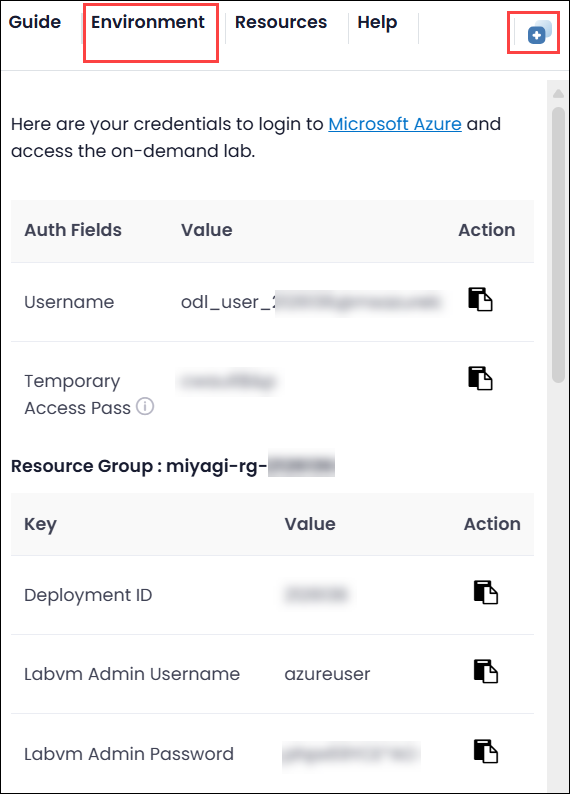
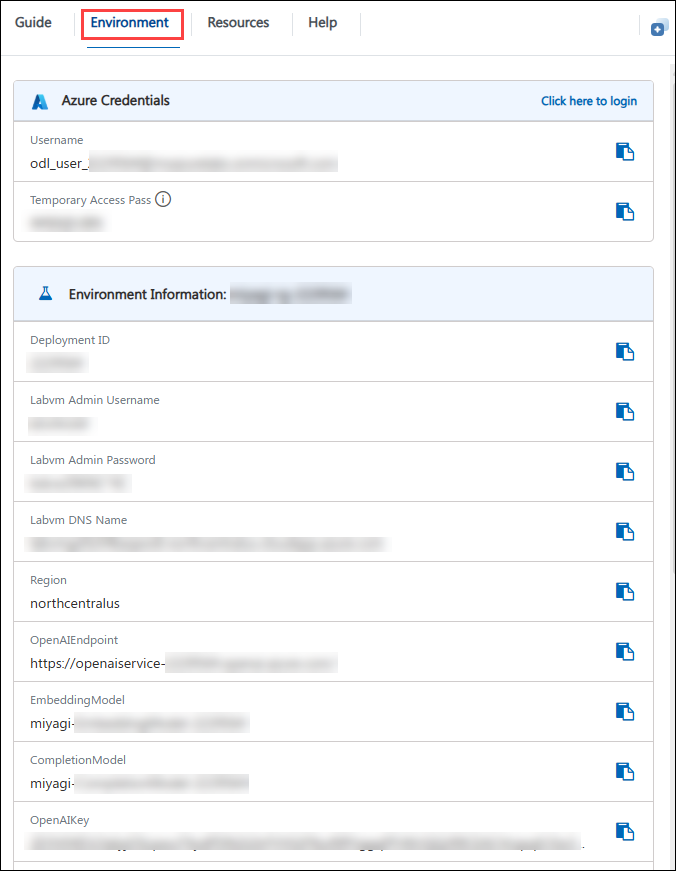
Changes

diff --git a/docs/labs/02-build-your-own-copilot/gl-lab1v3.md b/docs/labs/02-build-your-own-copilot/gl-lab1v3.md
@@ -22,11 +22,11 @@ In this lab, you will configure the Miyagi app by setting up the environment, in
 
    ![](./Media/img-05.png)
 
-   >**Note** If the **Join us in making promt-flow extension better!** window is prompted, click on **No,thanks**.
+   >**Note** If the **Join us in making prompt-flow extension better!** window is prompted, click on **No, thanks**.
 
    ![](./Media/image-rg-01.png)
    
-1. In **Visual Studio Code** from menu bar select **File(1)** > **open folder(2)**.
+1. In **Visual Studio Code**, from the menu bar select **File (1)** > **Open folder (2)**.
 
    ![](./Media/image-rg-02.png)
 
@@ -63,7 +63,7 @@ In this lab, you will configure the Miyagi app by setting up the environment, in
    
 1. Once the values are updated, save the file by pressing **CTRL + S**.
 
-1. Navigate to **miyagi/sandbox/usecases/rag/dotnet** and verify **.env** file is present.
+1. Navigate to **miyagi/sandbox/usecases/rag/dotnet** and verify the **.env** file is present.
   
 1. In the **.env** file, replace the following values for the variables below.
 
@@ -78,7 +78,7 @@ In this lab, you will configure the Miyagi app by setting up the environment, in
    
    ![](./Media/env1new.png)
 
-1. Once after updating the values, kindly save the file by pressing **CTRL + S**.
+1. After updating the values, save the file by pressing **CTRL + S**.
 
 >**Congratulations** on completing the Task! Now, it's time to validate it. Here are the steps:
   > - Hit the Validate button for the corresponding task. If you receive a success message, you have successfully validated the lab. 
@@ -91,7 +91,7 @@ In this lab, you will configure the Miyagi app by setting up the environment, in
 
 In this lab, you will explore the implementation of the Recommendation service, focusing on its algorithms and data processing methods to deliver personalized suggestions.
 
-Recommendation service implements RAG pattern using Semantic Kernel SDK. The details of the implementation are captured in the Jupyter notebook in the folder miyagi/sandbox/usecases/rag/dotnet. You can open the notebook in VSCode and run the cells to understand step-by-step details of how the Recommendation Service is implemented. Pay special attention to how the RAG pattern is implemented using Semantic Kernel. Select the kernel as **.NET Interactive** in the top right corner of the notebook.
+The Recommendation service implements the RAG pattern using the Semantic Kernel SDK. The details of the implementation are captured in the Jupyter notebook in the folder miyagi/sandbox/usecases/rag/dotnet. You can open the notebook in VSCode and run the cells to understand step-by-step details of how the Recommendation Service is implemented. Pay special attention to how the RAG pattern is implemented using Semantic Kernel. Select the kernel as **.NET Interactive** in the top right corner of the notebook.
 
 1. In the Visual Studio Code, navigate to **miyagi/sandbox/usecases/rag/dotnet** folder and select **Getting-started.ipynb**.
 
@@ -103,28 +103,82 @@ Recommendation service implements RAG pattern using Semantic Kernel SDK. The det
    dotnet --version
    ```
 
-1. After verifying the version, run the following command to install the **.NET Interactive** extension.
+1. Open the Extensions panel using **Ctrl+Shift+X (1)**, search under the **recommended section (2)** and manually install the following two extensions:
+ 
+   - **Python (3)** (by Microsoft)
+   - **Jupyter (4)** (by Microsoft)
 
+   ![](Media/ext01.png)
+
+1. Once installed, run the following commands in the terminal to set up the .NET Interactive kernel for Jupyter.
+ 
+   Install **.NET Interactive globally**:
+ 
+   ```powershell
+   dotnet tool install --global Microsoft.dotnet-interactive
    ```
-   code --install-extension ms-dotnettools.dotnet-interactive-vscode --force
+   
+   **Refresh the PATH** to make the tool available in the current terminal session:
+   
+   ```powershell
+   $env:PATH += ";$env:USERPROFILE\.dotnet\tools"
    ```
+   
+   **Install Jupyter** if it is not already present in the environment:
+   
+   ```powershell
+   python -m pip install jupyter
+   ```
+   
+   Register the .NET Interactive kernels with Jupyter:
+   
+   ```powershell
+   dotnet-interactive jupyter install
+   ```
+   
+   **Verify the kernels** were registered successfully:
+   
+   ```powershell
+   jupyter kernelspec list
+   ```
+ 
+   You should see `.net-csharp`, `.net-fsharp`, and `.net-powershell` listed in the output.
+ 
+   > **Close and reopen** Visual Studio Code to see the reflected changes.
+ 
+1. Authenticate with your Azure account by running the following command in the terminal:
+ 
+   ```powershell
+   az login
+   ```
+ 
+   A browser window will open prompting you to sign in. Select **Work or School Account** and provide your lab credentials.
+ 
+   ![](Media/az-login.png)
 
-   > **Note:** The installation may take some time. Please wait **10–15 minutes**, then reopen **Visual Studio Code** to verify whether the kernel has been installed.
-
+   Once signed in, verify the login was successful by running:
+   
+   ```none
+   az account show
+   ```
+   
+   You should see your subscription details printed in the terminal.
+ 
+1. Open the notebook file and select the appropriate kernel by clicking the **kernel selector** in the top-right corner of the notebook. Choose **Existing Jupyter Kernels -> .NET (C#)** for the notebook's language.
+ 
+   > **Note:** If the newly installed kernels do not appear in the kernel selector immediately, wait 15–20 seconds and try again.
+ 
 1. **Execute the notebook cell by cell** (using either Ctrl + Enter to stay on the same cell or Shift + Enter to advance to the next cell) and observe the results of each cell execution.
   
-   > **Note**: Make sure **.Net Interactive** is in ready State, if not please wait for 15 to 20 seconds. Also, please do not click on the **Run All** option to execute all the cells at a time,e this may lead to exceeding the token limit, resulting in the error: 503 – Service unreachable. 
+> **Note**: Please do not click on the **Run All** option to execute all the cells at a time; this may lead to exceeding the token limit, resulting in the error: 503 – Service unreachable.
 
       ![](./Media/run.png)
 
    > **Note**: Ensure that the **Python extension** is installed before running the cells.
    
-   > **Note**: Ensure to click on **Work or School Account** when a window opens and provide the username and password
-   
    > **Note**: In case any issues or errors occur related to the exceeded call rate limit of your current OpenAI S0 pricing tier. Please wait for 15 to 20 seconds and re-run the cell
 
 >**Congratulations** on completing the Task! Now, it's time to validate it. Here are the steps:
-
   > - Hit the Validate button for the corresponding task. If you receive a success message, you have successfully validated the lab. 
   > - If not, carefully read the error message and retry the step, following the instructions in the lab guide.
   > - If you need any assistance, please contact us at [email redacted].
@@ -135,7 +189,7 @@ Recommendation service implements RAG pattern using Semantic Kernel SDK. The det
 
 In this lab, you will set up the environment, install necessary dependencies, and run the Recommendation service locally to test and develop features effectively.
 
-1. Open a new terminal: by navigating **miyagi/services/recommendation-service/dotnet** and right-click on in cascading menu select **Open in Integrated Terminal**.
+1. Open a new terminal by navigating to **miyagi/services/recommendation-service/dotnet** and right-clicking in the cascading menu to select **Open in Integrated Terminal**.
 
     ![](./Media/task4-1.png)
 
@@ -161,9 +215,11 @@ In this lab, you will set up the environment, install necessary dependencies, an
 
 ## Task 4: Run miyagi frontend locally
 
-1. Navigate back to the VS code, Open a new terminal by navigating to **miyagi/ui** and right-click on **ui/typescript** , in cascading menu select **Open in Integrated Terminal**.
+1. Navigate back to VS Code. Open a new terminal by navigating to **miyagi/ui** and right-clicking on **ui/typescript** in the cascading menu to select **Open in Integrated Terminal**.
 
    ![](./Media/image-rg-25.png)
+
+   You must be in the `C:\LabFiles\miyagi\ui\typescript` directory.
 
 1. Run the following command to install the dependencies
    
@@ -175,7 +231,7 @@ In this lab, you will set up the environment, install necessary dependencies, an
 
    > **Note**: Let the command run; meanwhile, you can proceed with the next step.
 
-1. Open another tab in Edge, and  browse the following
+1. Open another tab in Edge and browse to the following
 
    ```
    http://localhost:4001
@@ -252,7 +308,7 @@ In this lab, you will set up the environment, install necessary dependencies, an
 
 1. Once you view the logs, press **Ctrl + C** to stop the **swagger UI** page.
 
-1.  From the **Terminal** select **node** terminal, press **Ctrl + C** to stop the **recommendation service** ui page.
+1. From the terminal, select the Node terminal and press **Ctrl + C** to stop the Recommendation service UI page.
 
 ## Summary
 